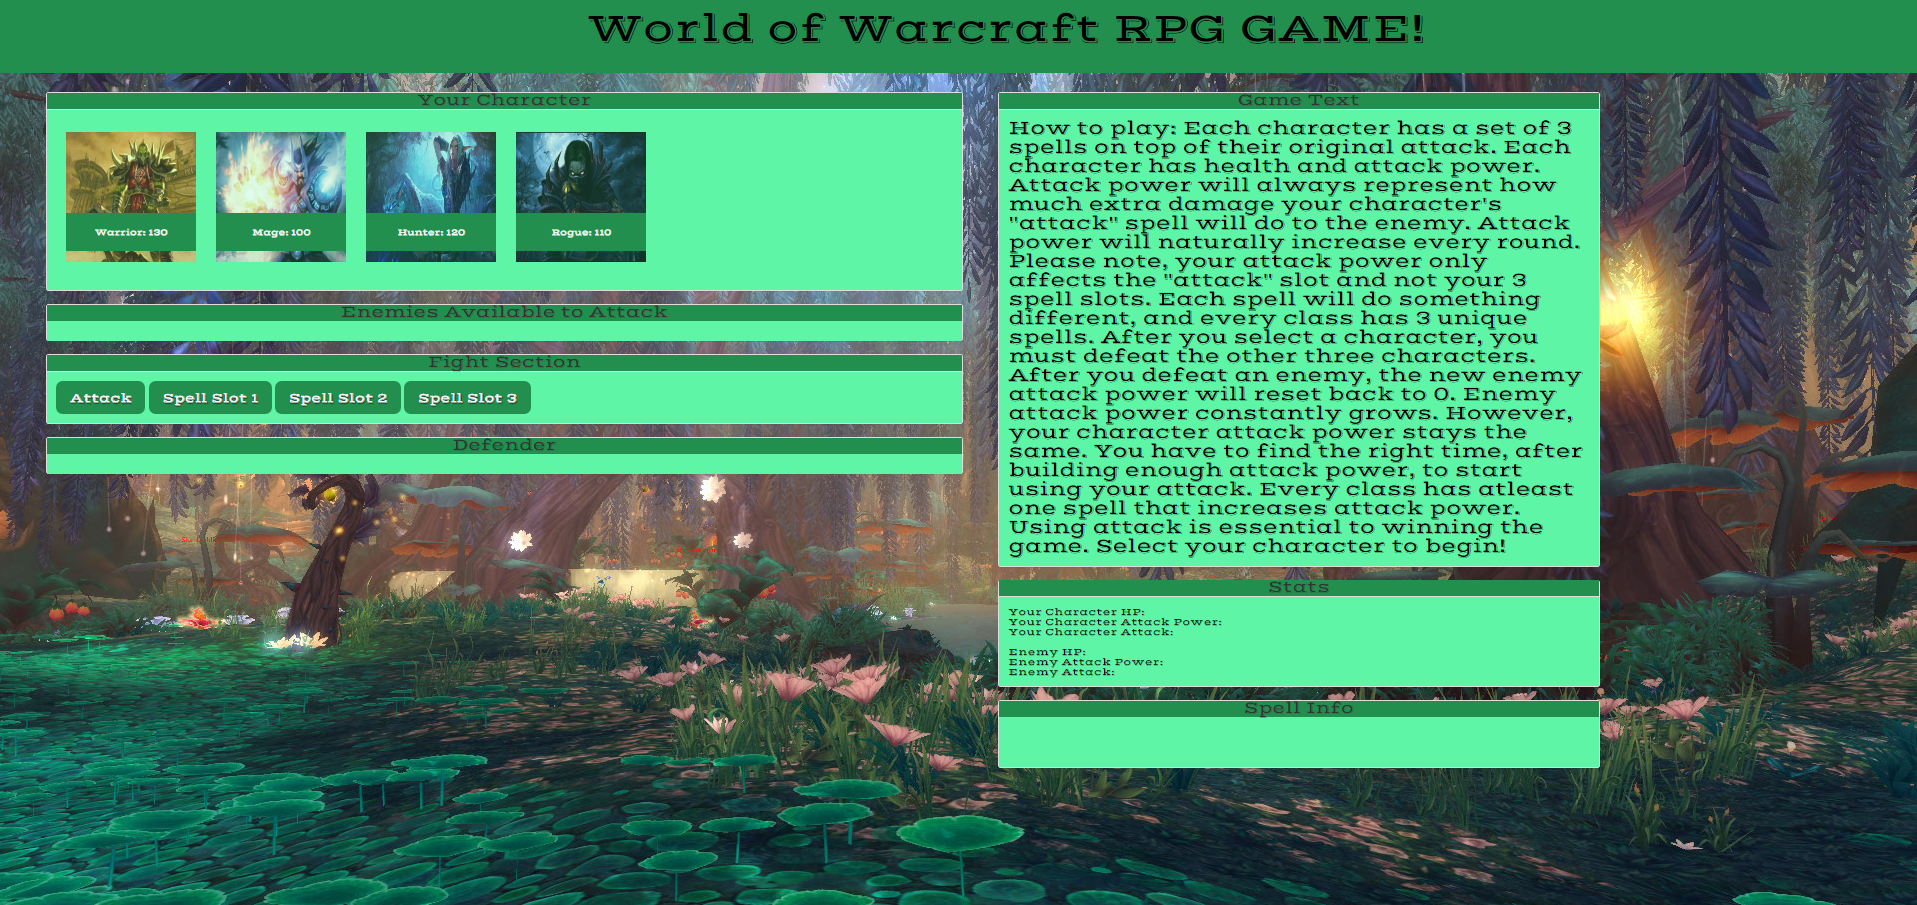
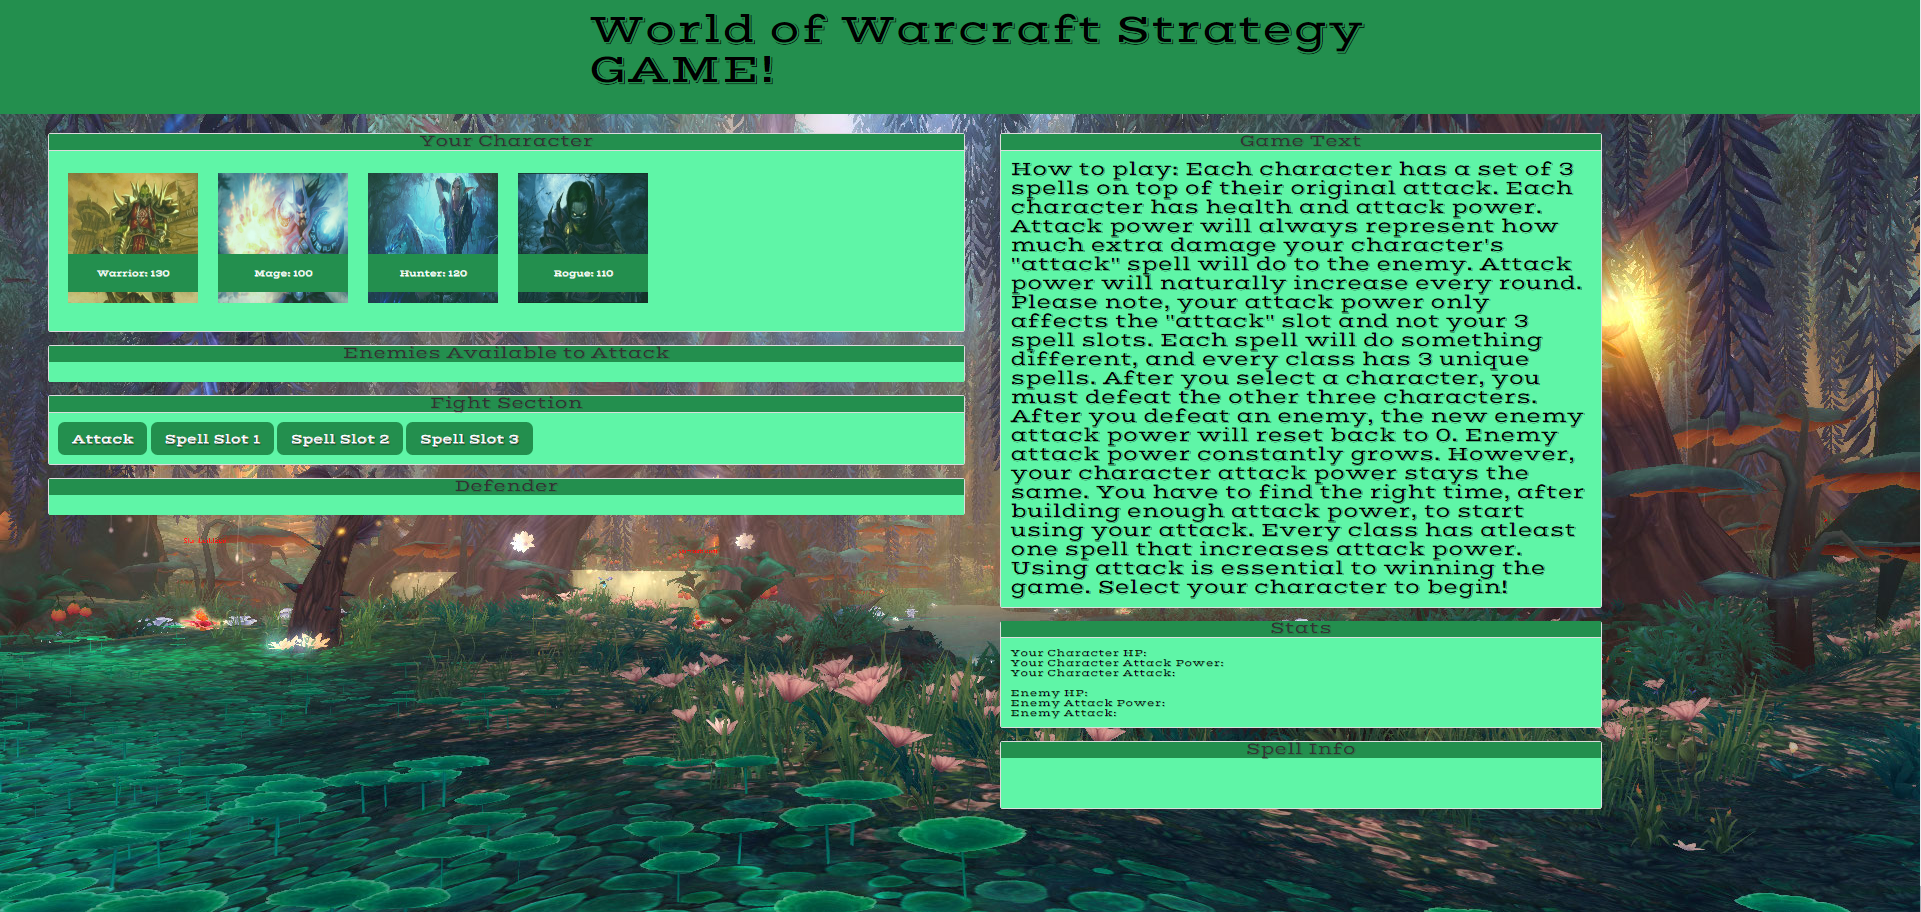
added LocalSpectrum card

diff --git a/index.html b/index.html
@@ -101,6 +101,32 @@
                         <div class="project-card">
                             <div class="card-image">
                                 <div class="color-overlay"></div>
+                                <img class="screenshot" src="./assets/images/LandingPage.PNG" alt="Local Spectrum | Web-app for users to search and post items.">
+                            </div>
+                            <div class="card-text">
+                                <h3 class="project-name">Local Spectrum</h3>
+                                <div class="links">
+                                    <a href="https://github.com/tgwalker93/LocalSpectrum" target="_blank">View on GitHub</a>
+                                    <span> •
+                                        <a href="https://local-spectrum.herokuapp.com/" target="_blank">View Live</a>
+                                    </span>
+                                </div>
+                                <p class="description">
+                                    A
+                                    <strong>NodeJS</strong>,
+                                    <strong>MongoDB</strong>,
+                                    <strong>Express</strong>, and
+                                    <strong>ReactJS</strong> application where users can query items within cities that were posted by other users. Users are free to add reviews, comments, and post
+                                    their own items if they register.
+                                </p>
+                    
+                    
+                    
+                            </div>
+                        </div>
+                        <div class="project-card">
+                            <div class="card-image">
+                                <div class="color-overlay"></div>
                                 <img class="screenshot" src="./assets/images/casinoRoyale.PNG"
                                     alt="Casino Games Web Application | Web-app blackjack and video poker">
                             </div>

diff --git a/projects/jqueryStrategyGame/index.html b/projects/jqueryStrategyGame/index.html
@@ -27,7 +27,7 @@
 
 <div class="jumbotron jumbotron-fluid">
   <div class="container">
-    <h1 class="display-3">World of Warcraft RPG GAME!</h1>
+    <h1 class="display-3">World of Warcraft Strategy GAME!</h1>
     <p class="lead"></p>
   </div>
 </div>
